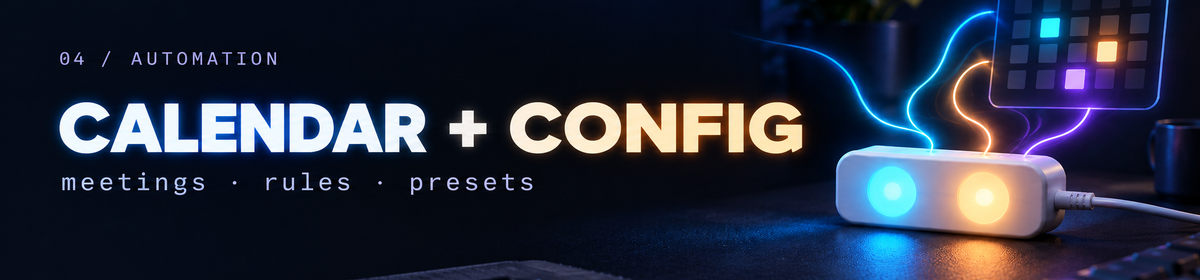
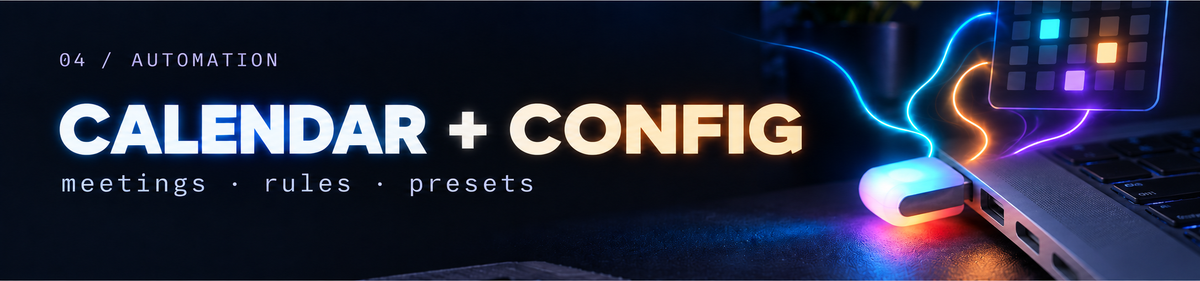
docs: show the real blink(1) in README art

diff --git a/README.md b/README.md
@@ -1,6 +1,6 @@
 # blink-light
 
-![Blink Light title card: a two-LED USB desk light glows cyan and amber beside flowing notification signals](docs/images/readme-title-blink-light.png)
+![Blink Light title card: a real blink(1) mk2 glows from a laptop USB port beside flowing notification signals](docs/images/readme-title-blink-light.png)
 
 Turn a [`blink(1)`](https://blink1.thingm.com/) USB light into an ambient status display for your desk. It warns you before meetings and glows red while you're in one, chimes on the hour, plays a short rainbow at the end of the day, fires named daily alarms, and lights up when an AI coding agent finishes or gets stuck.
 
@@ -10,7 +10,7 @@ Windows-first, written in Python, no admin rights needed. One batch file sets ev
 
 ---
 
-![Install and quick start section header: a two-LED desk light comes alive from clone to first glow](docs/images/readme-header-setup.png)
+![Install and quick start section header: a blink(1) plugged into a laptop comes alive from clone to first glow](docs/images/readme-header-setup.png)
 
 ## Requirements
 
@@ -54,7 +54,7 @@ For full first-time setup — installing the scheduled tasks, verifying the chim
 | [Herdr](docs/HERDR.md) | make the light react when an AI coding agent finishes or gets blocked |
 | [My setup](docs/MY-SETUP.md) | see how the author runs it day to day |
 
-![What the light does section header: breathing, heartbeat, relay, and rainbow signals rise from the desk light](docs/images/readme-header-behaviour.png)
+![What the light does section header: breathing, heartbeat, relay, and rainbow signals flow into a blink(1)](docs/images/readme-header-behaviour.png)
 
 ## What the light does
 
@@ -234,7 +234,7 @@ Setting `alarms` in your config **replaces** the defaults rather than merging,
 so `"alarms": []` disables both shipped ones. Add `"days"` to either default
 to skip weekends.
 
-![Notifications and GitHub section header: completion, warning, and review signals flow into the desk light](docs/images/readme-header-signals.png)
+![Notifications and GitHub section header: completion, warning, and review signals flow into a blink(1)](docs/images/readme-header-signals.png)
 
 ## Notifications
 
@@ -383,7 +383,7 @@ to start on battery, so an undocked laptop still keeps the schedule. See
 calendar watcher instead of just the chime loop, so use it if you want
 calendar colours without a login task.
 
-![Calendar and config section header: meetings, rules, and presets become ambient light](docs/images/readme-header-automation.png)
+![Calendar and config section header: meetings, rules, and presets become ambient light through a blink(1)](docs/images/readme-header-automation.png)
 
 ## Calendar
 
